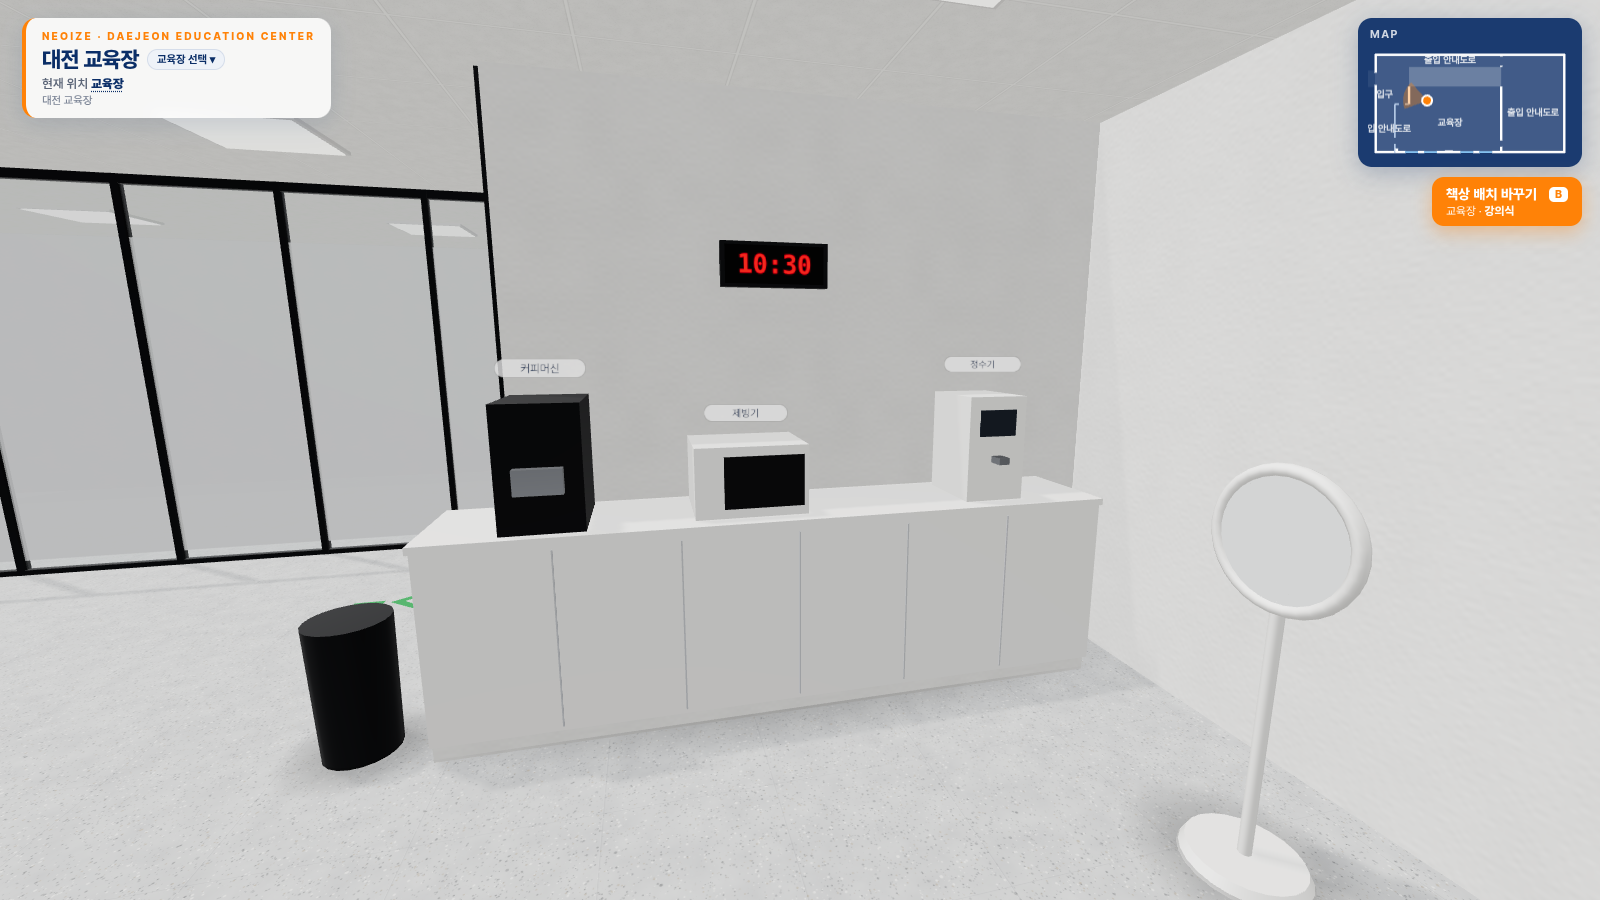
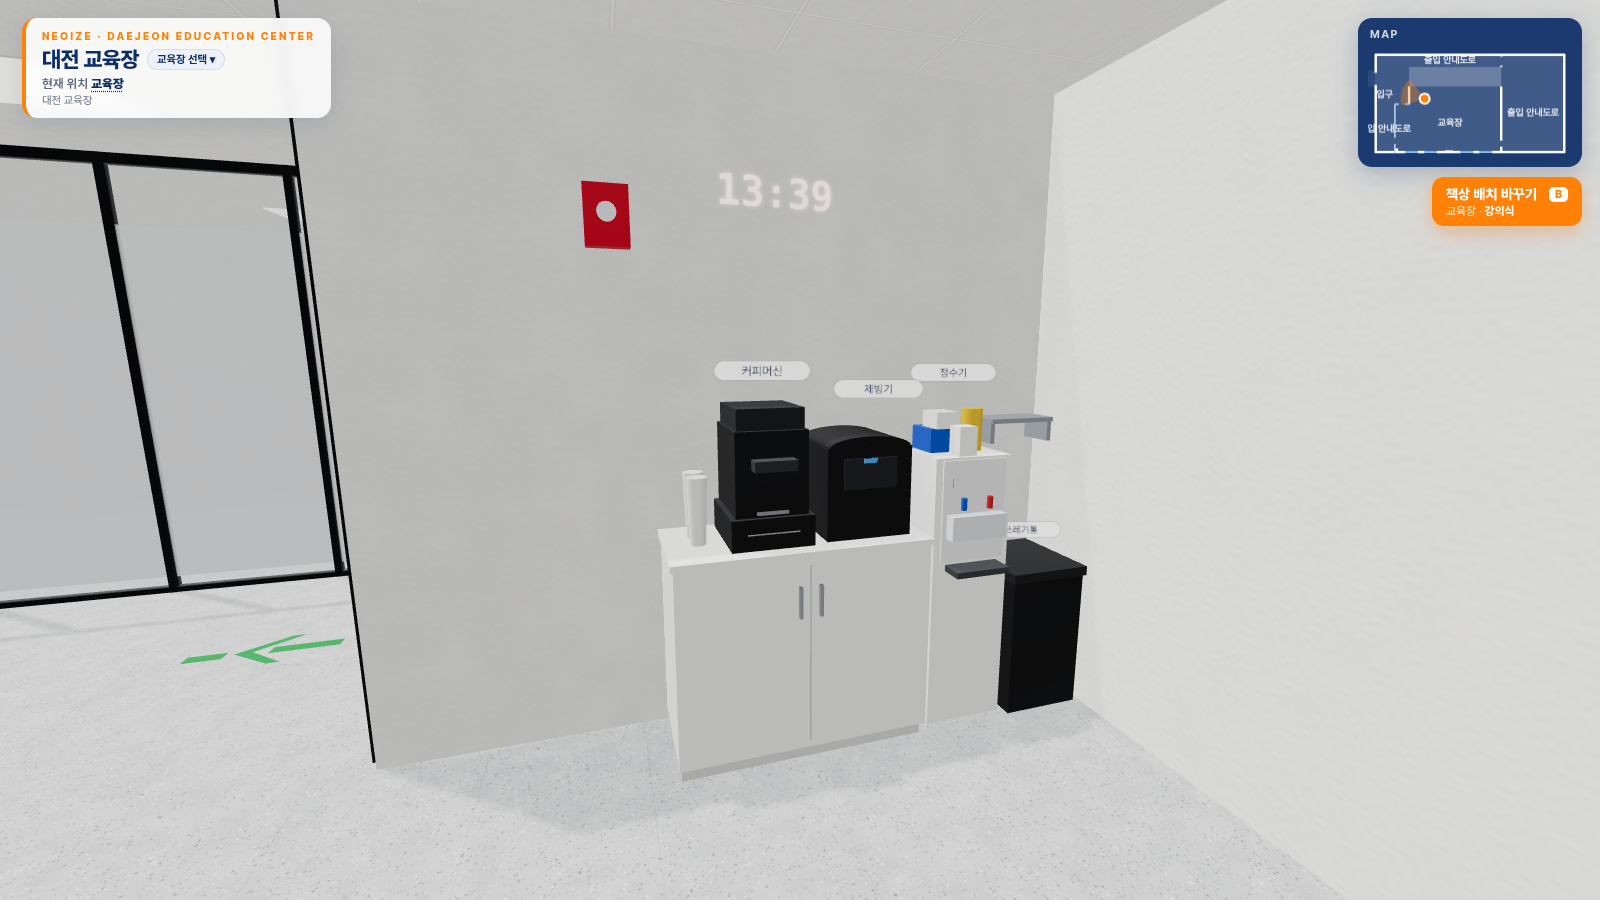
대전 커피 코너를 실제 사진대로: 2문 수납장+커피머신·제빙기, 바닥형 정수기, 사각 쓰레기통, 흰 LED 시계·화재 경보함, 선풍기 제거

diff --git a/app.js b/app.js
@@ -5,7 +5,7 @@ import { OrbitControls } from 'three/addons/OrbitControls.js';
 import { CSS2DRenderer, CSS2DObject } from 'three/addons/CSS2DRenderer.js';
 import { RoomEnvironment } from 'three/addons/RoomEnvironment.js';
 import { mergeGeometries } from 'three/addons/BufferGeometryUtils.js';
-import { makeTextures, textTexture } from './textures.js?v=11191600';
+import { makeTextures, textTexture } from './textures.js?v=11191630';
 
 const L = window.LAYOUT, B = L.building, H = B.ceiling, EYE = B.eye || 1.6, W = B.width, D = B.depth;
 const TW = Object.assign({ exterior: 0.24, interior: 0.14, thick: 0.3 }, B.wall || {});
@@ -581,6 +581,48 @@ function ledClock(g, o) {   // 빨간 LED 디지털 시계 (벽걸이)
   const m = new THREE.Mesh(new THREE.PlaneGeometry(0.46, 0.17), new THREE.MeshBasicMaterial({ map: tx })); m.position.set(0, y + 0.1, -0.021); m.rotation.y = Math.PI; m.userData.keep = true; g.add(m);
   g.userData.noBlob = true;
 }
+function coffeeCorner(g, o) {   // 대전 커피 코너(사진 11/19): 그룹 원점 = 벽면, 앞(-z)이 실내. u = 벽을 바라볼 때 왼→오른쪽 거리 → 로컬 x = -u
+  const X = (u) => -u, W = plain(0xf4f4f2), BK = plain(0x1c1d20), GR = plain(0x9aa0a6);
+  // 흰 낮은 2문 수납장 1.0 × 0.45 × 0.85
+  { const u = o.cab ?? -0.1, x = X(u), h = 0.85, d = 0.45;
+    box(0.98, 0.06, d - 0.04, plain(0xd9d9d6), x, 0, -d / 2 + 0.01, g); box(1.0, h - 0.06, d, W, x, 0.06, -d / 2, g); box(1.02, 0.025, d + 0.02, W, x, h - 0.025, -d / 2, g);
+    box(0.006, h - 0.14, 0.01, plain(0xc9ccd1), x, 0.09, -d - 0.002, g);
+    for (const s of [-1, 1]) box(0.012, 0.12, 0.02, M.metal, x + s * 0.04, 0.6, -d - 0.012, g);
+    const t = h;
+    // 종이컵 묶음(왼쪽) + 검정 받침 서랍 위 캡슐 커피머신
+    { const cx = X(u - 0.38); for (let i = 0; i < 2; i++) cyl(0.04, 0.03, 0.26, W, cx + i * 0.09 * 0, t, -0.14 - i * 0.1, 14, g); }
+    { const cx = X(u - 0.12); box(0.32, 0.12, 0.36, BK, cx, t, -0.21, g); box(0.2, 0.004, 0.005, GR, cx, t + 0.06, -0.392, g);
+      box(0.28, 0.32, 0.34, BK, cx, t + 0.12, -0.2, g); box(0.26, 0.08, 0.3, plain(0x2a2c30), cx, t + 0.44, -0.2, g);
+      box(0.16, 0.04, 0.08, plain(0x3a3d42), cx, t + 0.3, -0.39, g); box(0.12, 0.012, 0.1, M.metal, cx, t + 0.13, -0.33, g); }
+    // 검정 제빙기(둥근 윗면)
+    { const ix = X(u + 0.27); box(0.35, 0.36, 0.34, BK, ix, t, -0.2, g);
+      const top = cyl(0.17, 0.17, 0.34, BK, ix, 0, 0, 24, g); top.rotation.x = Math.PI / 2; top.scale.set(1, 1, 0.25); top.position.set(ix, t + 0.36, -0.2);
+      box(0.22, 0.12, 0.005, plain(0x30343a), ix, t + 0.2, -0.373, g); box(0.06, 0.02, 0.005, plain(0x5ab0ff), ix, t + 0.3, -0.373, g); }
+  }
+  // 바닥형 흰 정수기 0.35 × 1.15 + 앞 패널 · 꼭지 2개 · 물받이, 위에 비품
+  { const x = X(o.water ?? 0.625), d = 0.36, fz = -d - 0.02;
+    box(0.35, 1.15, d, W, x, 0, -d / 2 - 0.02, g); box(0.29, 0.42, 0.01, plain(0xe9eaec), x, 0.72, fz - 0.005, g);
+    box(0.25, 0.1, 0.06, plain(0xdfe1e4), x, 0.82, fz - 0.03, g);
+    cyl(0.012, 0.012, 0.05, plain(0xd23b2b), x - 0.06, 0.94, fz - 0.03, 8, g); cyl(0.012, 0.012, 0.05, plain(0x2b6fd2), x + 0.06, 0.94, fz - 0.03, 8, g);
+    box(0.24, 0.025, 0.1, plain(0x4a4d52), x, 0.68, fz - 0.05, g);
+    box(0.2, 0.06, 0.005, plain(0x2b3440), x, 1.03, fz - 0.006, g);
+    cyl(0.045, 0.045, 0.18, plain(0xf2c230), x - 0.08, 1.15, -0.22, 14, g);   // 노란 컵 홀더
+    box(0.12, 0.1, 0.16, plain(0x2f6fd6), x + 0.07, 1.15, -0.17, g);           // 파란 상자
+    box(0.1, 0.07, 0.12, W, x + 0.06, 1.25, -0.2, g); box(0.08, 0.12, 0.08, W, x + 0.02, 1.15, -0.32, g);
+  }
+  // 검정 사각 쓰레기통 0.4(앞뒤) × 0.35 × 0.6 (모서리) + 위 회색 벽 선반
+  { const x = X(o.bin ?? 1.0); box(0.35, 0.6, 0.4, BK, x, 0, -0.22, g); box(0.37, 0.04, 0.42, plain(0x2a2b2e), x, 0.6, -0.22, g);
+    box(0.32, 0.02, 0.18, GR, x, 1.25, -0.09, g); box(0.02, 0.1, 0.16, GR, x - 0.15, 1.16, -0.09, g); box(0.02, 0.1, 0.16, GR, x + 0.15, 1.16, -0.09, g); }
+  // 테 없는 흰(분홍기) LED 숫자 시계 + 왼쪽 빨간 화재 경보함
+  { const x = X(o.clock ?? -0.1), y = o.clockY ?? 2.08;
+    const c = document.createElement('canvas'); c.width = 512; c.height = 160; const k = c.getContext('2d');
+    k.shadowColor = '#ffd6dc'; k.shadowBlur = 18; k.fillStyle = '#fff2f4'; k.font = '700 132px monospace'; k.textAlign = 'center'; k.textBaseline = 'middle'; k.fillText(o.text || '13:39', 256, 84);
+    const tx = new THREE.CanvasTexture(c); tx.colorSpace = THREE.SRGBColorSpace;
+    const m = new THREE.Mesh(new THREE.PlaneGeometry(0.62, 0.19), new THREE.MeshBasicMaterial({ map: tx, transparent: true, depthWrite: false })); m.position.set(x, y + 0.1, -0.012); m.rotation.y = Math.PI; m.userData.keep = true; m.renderOrder = 5; g.add(m);
+    const ax = X(o.alarm ?? -0.75); box(0.16, 0.22, 0.06, plain(0xd8261c), ax, (o.alarmY ?? 1.95), -0.03, g); cyl(0.035, 0.035, 0.015, plain(0xf2f2f2), ax, 0, 0, 16, g).position.set(ax, (o.alarmY ?? 1.95) + 0.12, -0.065);
+    g.children[g.children.length - 1].rotation.x = Math.PI / 2; }
+  g.userData.noBlob = true;
+}
 function cabinet(g, o) { box(o.w || 1.2, o.h || 0.7, o.d || 0.4, matOf(o.color || 'white'), 0, 0, 0, g); }
 function block(g, o) { box(o.w || 0.1, o.h || 0.1, o.d || 0.1, matOf(o.color || 'black'), 0, o.y || 0, 0, g); }   // 단순 박스(소품)
 function barCounter(g, o) {
@@ -698,7 +740,7 @@ function slats(o) {   // from → to 선을 따라 세로 우드 루버
   if (o.thick) box(horiz ? Math.abs(bx - ax) + 0.1 : 0.08, 0.04, horiz ? 0.08 : Math.abs(bz - az) + 0.1, M.oak, (ax + bx) / 2, h, (az + bz) / 2, g);
   g.userData.noBlob = true; return g;
 }
-const BUILDERS = { stage, podium, block, chair, stool, armchair, cube, roundTable, plant, desk, deskPair, tableSet, whiteboard, screen, ceilingScreen, speaker, island, clock: wallClock, exitSign, heater, tvStand, tvWall, signStand, bench, cabinet, barCounter, purifier, stanchion, mat, booth, pantry, zzPlant, coffeeCabinet, standFan, bin, ledClock };
+const BUILDERS = { stage, podium, block, chair, stool, armchair, cube, roundTable, plant, desk, deskPair, tableSet, whiteboard, screen, ceilingScreen, speaker, island, clock: wallClock, exitSign, heater, tvStand, tvWall, signStand, bench, cabinet, barCounter, purifier, stanchion, mat, booth, pantry, zzPlant, coffeeCabinet, coffeeCorner, standFan, bin, ledClock };
 const NOBLOB = new Set(['clock', 'exitSign', 'stage', 'whiteboard', 'screen', 'ceilingScreen', 'tvWall', 'mat', 'slats', 'booth']);
 const blobs = [];
 function place(o, parent = root) {

diff --git a/sites/daejeon/layout.js b/sites/daejeon/layout.js
@@ -117,11 +117,12 @@ window.LAYOUT = {
     { id:'dj_board', name:'유리 화이트보드', room:'교육장', boxes:[[20.6, 7.3, 20.8, 8.7, 0.8, 2.2], [20.6, 11.7, 20.8, 13.1, 0.8, 2.2]], lines:['마커·지우개: (예: 레지 위 비치) — 수정 필요'] },
     { id:'dj_speaker', name:'스피커', room:'교육장', boxes:[[19.6, 5.3, 20.2, 5.7, 2.2, 2.7], [19.6, 15.63, 20.2, 16.03, 2.2, 2.7]], lines:['음량 조절: (예: 앰프 위치) — 수정 필요', '마이크: (예: 무선 마이크) — 수정 필요'] },
     { id:'dj_ac', name:'에어컨', room:'교육장', boxes:[[10.3, 9.7, 11.3, 10.7, 2.5, 2.75], [16.4, 12.1, 17.4, 13.1, 2.5, 2.75]], lines:['리모컨/조작: (예: 벽 컨트롤러) — 수정 필요'] },
-    // 북서쪽 벽(px x157–170)을 따라 북 → 남: 정수기(y95–106) · 제빙기(y110–120) · 커피머신(y120–131)
-    { id:'dj_water', name:'정수기', room:'교육장', box:[5.74, 5.89, 6.16, 6.21, 0.85, 1.4], label:true, labelAt:[5.95, 1.5, 6.05], lines:['냉수·온수: (예: 온수 잠금 버튼) — 수정 필요'] },
-    { id:'dj_ice', name:'제빙기', room:'교육장', box:[5.74, 6.92, 6.16, 7.44, 0.85, 1.2], label:true, labelAt:[5.95, 1.3, 7.18], lines:['사용 방법: (예: 스쿱은 옆 걸이) — 수정 필요'] },
-    { id:'dj_coffee', name:'커피머신', room:'교육장', box:[5.72, 7.82, 6.18, 8.18, 0.85, 1.42], label:true, labelAt:[5.95, 1.5, 8.0], lines:['사용 방법: (예: 컵 올리고 버튼) — 수정 필요'] },
-    { id:'dj_clock', name:'디지털 시계', room:'교육장', box:[5.69, 6.75, 5.82, 7.25, 1.85, 2.15], lines:['수납장 위 벽 LED 시계'] }
+    // 북서쪽 벽 커피 코너(사진): 남→북 수납장(커피머신·제빙기) · 정수기 · 쓰레기통
+    { id:'dj_coffee', name:'커피머신', room:'교육장', box:[5.72, 6.55, 6.12, 6.86, 0.85, 1.42], label:true, labelAt:[5.92, 1.5, 6.72], lines:['사용 방법: (예: 캡슐 넣고 버튼) — 수정 필요', '종이컵: 왼쪽에 비치'] },
+    { id:'dj_ice', name:'제빙기', room:'교육장', box:[5.72, 6.05, 6.1, 6.42, 0.85, 1.32], label:true, labelAt:[5.9, 1.42, 6.23], lines:['사용 방법: (예: 스쿱은 옆 걸이) — 수정 필요'] },
+    { id:'dj_water', name:'정수기', room:'교육장', box:[5.69, 5.7, 6.07, 6.05, 0, 1.38], label:true, labelAt:[5.88, 1.48, 5.875], lines:['냉수·온수: (예: 온수 잠금 버튼) — 수정 필요', '컵·비품: 정수기 위'] },
+    { id:'dj_bin', name:'쓰레기통', room:'교육장', box:[5.69, 5.32, 6.11, 5.68, 0, 0.64], label:true, labelAt:[5.9, 0.76, 5.5], lines:['분리수거: (예: 일반쓰레기) — 수정 필요'] },
+    { id:'dj_clock', name:'디지털 시계', room:'교육장', box:[5.69, 6.28, 5.76, 6.92, 2.08, 2.3], lines:['수납장 위 벽 LED 시계'] }
   ],
 
   furniture: [
@@ -130,11 +131,10 @@ window.LAYOUT = {
     { type:'whiteboard', x:20.74, z:8.0, w:1.3, rot:90, style:'glass' },
     { type:'whiteboard', x:20.74, z:12.4, w:1.3, rot:90, style:'glass' },
 
-    /* --- 북서쪽 벽 수납장: 북 → 남 정수기 · 제빙기 · 커피머신 (앞면이 동쪽) + LED 시계 + 선풍기 + 휴지통 --- */
-    { type:'coffeeCabinet', x:5.95, z:7.0, w:2.9, rot:-90, waterAt:-0.95, iceAt:0.18, coffeeAt:1.0 },
-    { type:'ledClock', x:5.71, z:7.0, y:1.85, rot:-90 },
-    { type:'standFan', x:7.3, z:5.85, rot:180 },
-    { type:'bin', x:6.0, z:8.75 },
+    /* --- 북서쪽 벽 커피 코너(실제 사진 11/19): 벽을 바라볼 때 왼→오른쪽(남→북)
+           흰 2문 수납장(커피머신·종이컵·제빙기) → 바닥형 정수기 → 모서리 검정 쓰레기통 + 회색 선반, 위에 LED 시계 · 화재 경보함
+           그룹 원점 = 벽면(x5.69), z6.5 = u 0. 위치는 cab / water / bin / clock / alarm (u, m) 로 조정 --- */
+    { type:'coffeeCorner', x:5.69, z:6.5, rot:-90, cab:-0.1, water:0.625, bin:1.0, clock:-0.1, alarm:-0.75 },
 
     /* --- 입구 --- */
     { type:'mat', x:0.75, z:4.05, w:0.8, d:1.3, color:'orange' }

diff --git a/index.html b/index.html
@@ -178,10 +178,10 @@ a.pk-card:hover{transform:translateY(-4px);box-shadow:0 16px 36px rgba(11,46,103
   </div>
 </aside>
 <!-- 교육장 목록: sites/sites.js / 교육장별 공간 설정: sites/<id>/layout.js (치수·가구 배치는 거기서 수정) -->
-<script src="sites/sites.js?v=11191600"></script>
+<script src="sites/sites.js?v=11191630"></script>
 <script type="importmap">{"imports":{"three":"./lib/three.module.min.js","three/addons/":"./lib/addons/"}}</script>
 <script type="module">
-const V = '11191600', SITES = window.SITES || [], q = new URLSearchParams(location.search);
+const V = '11191630', SITES = window.SITES || [], q = new URLSearchParams(location.search);
 let id = q.get('site');
 if (!id && [...q.keys()].length) id = 'seoul';            // 예전 링크(?room=… 등)는 서울 구로로
 const S = SITES.find((s) => s.id === id);

diff --git a/수정방법.md b/수정방법.md
@@ -12,7 +12,7 @@
   - 출입 안내도로: 북쪽 띠(z0–5.30), 서쪽(x0–3.28), 동쪽(x20.83–31.36). 북쪽 띠 안 흰 상자 = `columns` 의 `block:true`(다른 공간, 미니맵 옅은 회색).
   - 문(전부 E 키): 입구 유리 양문(서쪽 바깥벽 z3.05–5.05, 처음부터 열림) · 교육장 북서쪽 문(z8.19, x3.95–4.95) · 서쪽 복도 문(x3.28, z13.7–14.7) · 동쪽 복도 문(x20.83, z14.15–15.15) · 북쪽 복도 동쪽 끝 문(x20.83, z0.4–1.9).
   - `outside: [[x0,z0,x1,z1]]` = 건물 밖 걸을 수 있는 바닥(입구 앞). `route: { points:[[x,z],...] }` = 바닥 초록 점선 + 화살표 동선. 걷기 시작점 = rooms 의 entrance jump(입구 바깥).
-  - 북서쪽 벽 수납장(`coffeeCabinet`, rot:-90): 북→남 정수기 · 제빙기 · 커피머신. 위치는 `waterAt / iceAt / coffeeAt`(수납장 가운데 기준 m)로 조정.
+  - 북서쪽 벽 커피 코너(`coffeeCorner`, 실제 사진 11/19): 벽을 보고 왼→오른쪽(남→북) 흰 2문 수납장(종이컵 · 검정 캡슐 커피머신+받침 · 검정 제빙기) → 바닥형 흰 정수기(꼭지 2개, 위에 컵·비품) → 모서리 검정 사각 쓰레기통 + 회색 벽 선반. 위에 흰 LED 숫자 시계(테 없음)와 빨간 화재 경보함. 위치는 `cab / water / bin / clock / alarm`(u, m; z6.5 기준 북쪽이 +)로 조정. 선풍기는 넣지 않음.
   - 책상 4열(x9.67, 12.09, 14.35, 16.93) × 4개(z7.58–13.73), 스크린은 동쪽 벽 앞 x19.9 (z10.2). 실측값·주소를 받으면 숫자와 `sites/sites.js` 의 addr 만 바꾸면 돼요.
 - 장비 안내 카드는 마우스(걷기 중엔 화면 가운데 조준점)가 닿은 장비 상자 윗면 바로 위에 떠요(이름표가 있으면 그 위).
 - 교육장 추가하기: ① `sites/새id/layout.js` 를 서울 파일을 복사해 만들고 ② `sites/sites.js` 에 `{ id:'새id', name, sub, ready:true, title, brand, addr, desc, thumb }` 한 줄 추가 ③ index.html·app.js 의 `?v=` 숫자 올리기.
